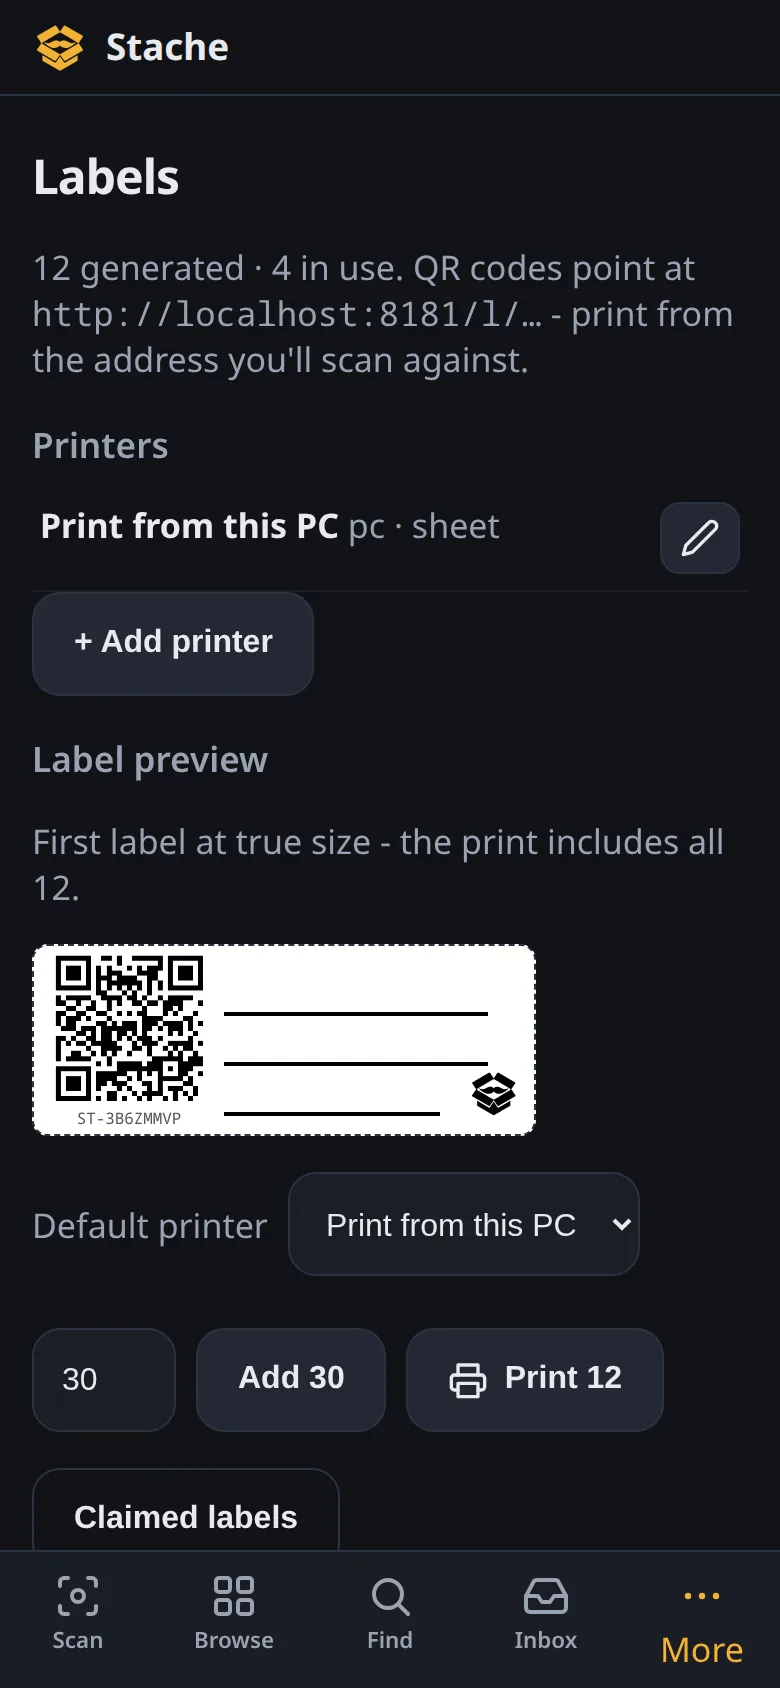
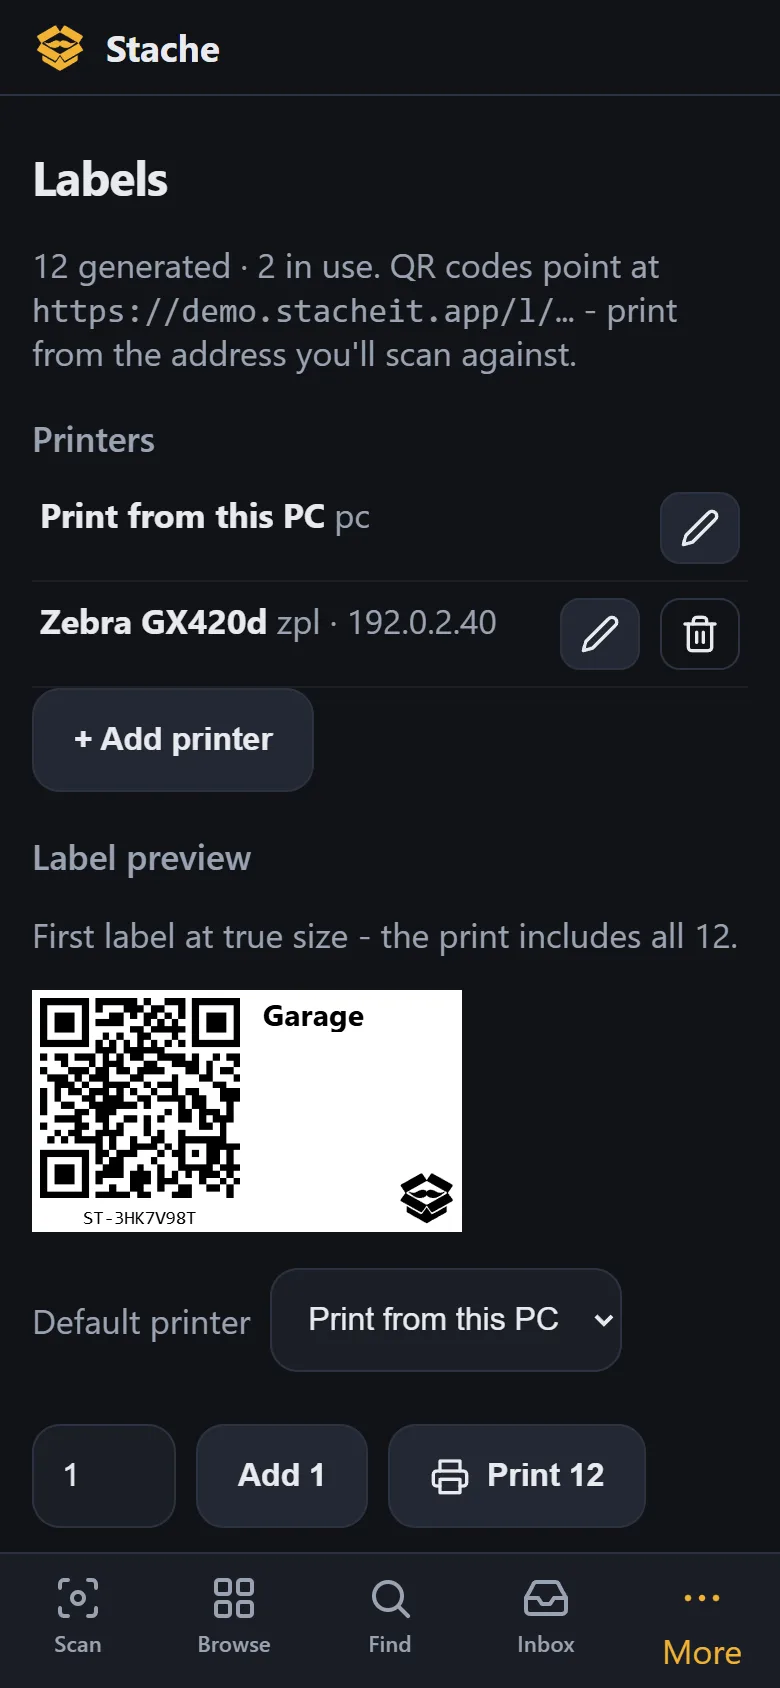
Retake print-UI screenshots with safe demo origin
labels.webp and print-printers.webp (plus the other print shots) now
show https://demo.stacheit.app as the QR/banner base URL - proxied to
the seeded local instance via playwright route.fetch/fulfill - and the
Zebra printer uses TEST-NET 192.0.2.40. No localhost, private IPs, or
tunnel addresses in captures. seed-print/shots-print updated for
reproducibility; README, AGENTS.md, SCREENSHOTS.md document the
workflow (moustache demo users, STACHE_DEMO_ORIGIN, TEST-NET).

Generated with [Devin](https://devin.ai)

diff --git a/tools/SCREENSHOTS.md b/tools/SCREENSHOTS.md
@@ -1,15 +1,22 @@
 # Documentation screenshot workflow
 
-This guide is for contributors and coding assistants maintaining the Stache website. The screenshots in the site are **real captures of the running application**, not hand-drawn mockups. Keep the existing capture script and seeded-demo workflow; update them only when the application routes or UI genuinely change.
+This guide is for contributors and coding assistants maintaining the Stache website. The screenshots in the site are **real captures of the running application**, not hand-drawn mockups. Keep the existing capture scripts and seeded-demo workflow; update them only when the application routes or UI genuinely change.
 
 ## What creates the screenshots
 
-Run `tools/shots.mjs` from the root of `stache-site`. It signs in to a seeded Stache instance using Playwright, visits a known set of routes at a phone-sized viewport, and saves WebP images.
+- `tools/shots.mjs` — the general capture script: landing-page and docs screenshots from a seeded instance.
+- `tools/seed-print.mjs` + `tools/shots-print.mjs` — the print-UI pipeline: seeds a disposable instance (accounts, labels, a configured Zebra printer, a saved sheet preset), then captures the Labels/print screens into `public/shots-docs/` (`labels`, `print-printers`, `print-margins`, `print-add`, `print-sheets`).
+
+Both sign in to a seeded Stache instance using Playwright, visit routes at a phone-sized viewport, and save WebP images.
 
 - `public/shots/` contains screenshots used by the marketing/landing page.
 - `public/shots-docs/` contains screenshots used by documentation pages.
-- The script uses a 390 × 844 viewport, device scale factor 2, and dark color scheme.
+- The scripts use a 390 × 844 viewport, device scale factor 2, and dark color scheme.
 - Screenshots are saved at WebP quality 82.
+
+### Safe demo URLs in captures
+
+`tools/shots-print.mjs` routes a **safe public demo origin** (`https://demo.stacheit.app`, override with `STACHE_DEMO_ORIGIN`) to the local instance via Playwright `route.fetch`/`fulfill`, so the banner and QR payloads in captures show a real, user-owned demo domain — never localhost, private IPs, or temporary tunnels. For sign-in to work, temporarily add the demo origin to the instance's `STACHE_TRUSTED_ORIGINS` (`.env`) and `docker compose up -d` to recreate; revert afterwards. Printer addresses should use TEST-NET ranges (e.g., `192.0.2.x`).
 
 The route lists and filenames are defined in the script. **Do not rename or remove a screenshot without searching the site for references to it.**
 

diff --git a/README.md b/README.md
@@ -33,20 +33,22 @@ npm run check:links
 | Docs content | `src/content/docs/docs/**` (the doubled `docs` is intentional — it puts pages under `/docs/`) |
 | Phone screenshots | `public/shots/*.webp` |
 | Documentation screenshots | `public/shots-docs/*.webp` |
-| Screenshot capture script | `tools/shots.mjs` |
+| Screenshot capture scripts | `tools/shots.mjs`, `tools/seed-print.mjs` + `tools/shots-print.mjs` (print UI) |
 | Screenshot contributor guide | `tools/SCREENSHOTS.md` |
 | Photo credits data | `src/data/credits.json` → rendered at `/credits/` |
 | Deploy workflow | `.github/workflows/deploy.yml` |
 
 ## Screenshots
 
-The site uses real captures from a seeded Stache demo instance. To refresh them, use the existing Playwright script:
+The site uses real captures from a seeded Stache demo instance. To refresh them, use the existing Playwright scripts:
 
 ```sh
-node tools/shots.mjs
+node tools/shots.mjs          # landing + general docs shots
+node tools/seed-print.mjs     # seed a disposable instance for print-UI shots
+node tools/shots-print.mjs    # Labels/print-UI captures (safe demo origin)
 ```
 
-Prepare a disposable demo instance first and set its URL, demo credentials, area ID, item ID, and Chromium executable as needed. **Never capture from a real household.** The full setup, environment variables, capture list, and review checklist are documented in [tools/SCREENSHOTS.md](tools/SCREENSHOTS.md).
+Prepare a disposable demo instance first and set its URL, demo credentials, area ID, item ID, and Chromium executable as needed. **Never capture from a real household** — captures must show a safe demo base URL (`demo.stacheit.app` via `STACHE_DEMO_ORIGIN`) and TEST-NET printer addresses, never localhost, private IPs, or tunnels. The full setup, environment variables, capture list, and review checklist are documented in [tools/SCREENSHOTS.md](tools/SCREENSHOTS.md).
 
 ## Configuration
 

diff --git a/AGENTS.md b/AGENTS.md
@@ -25,9 +25,16 @@ Marketing + docs site for [Stache](https://github.com/GraphicHealer/Stache)
   demo Stache instance, not mockups — regenerate with `tools/shots.mjs`
   (playwright-core + system chromium). Demo instance used
   `ghcr.io/graphichealer/stache` on :8181 with seeded areas/items; seed data +
-  stock photos live under `/tmp/stache-seed/` (ephemeral). Demo account is the
-  generic name **Alex** (demo@stache.local) — screenshots are public, never
-  seed a real name.
+  stock photos live under `/tmp/stache-seed/` (ephemeral). Demo accounts are
+  famous-moustache historical figures — **Salvador Dalí** (dali@stache.local,
+  admin) plus Nietzsche, Twain, Wyatt Earp — public figures only, never real
+  personal names.
+- Print-UI captures live in `tools/seed-print.mjs` + `tools/shots-print.mjs`:
+  seed a disposable instance (labels, TEST-NET `192.0.2.40` Zebra, saved sheet
+  preset), then capture with a safe public origin — `STACHE_DEMO_ORIGIN`
+  (default `https://demo.stacheit.app`) is proxied to the local app so banners
+  and QR payloads never show localhost/private IPs/tunnels. The demo origin
+  must be in `STACHE_TRUSTED_ORIGINS` while capturing. See `tools/SCREENSHOTS.md`.
 - Demo photos are Wikimedia Commons CC0/CC-BY/PD images — keep
   `src/data/credits.json` (rendered at `/credits/`) in sync if you swap them.
 - Docs copy: plain-language landing page; technical is OK in docs. Content was
